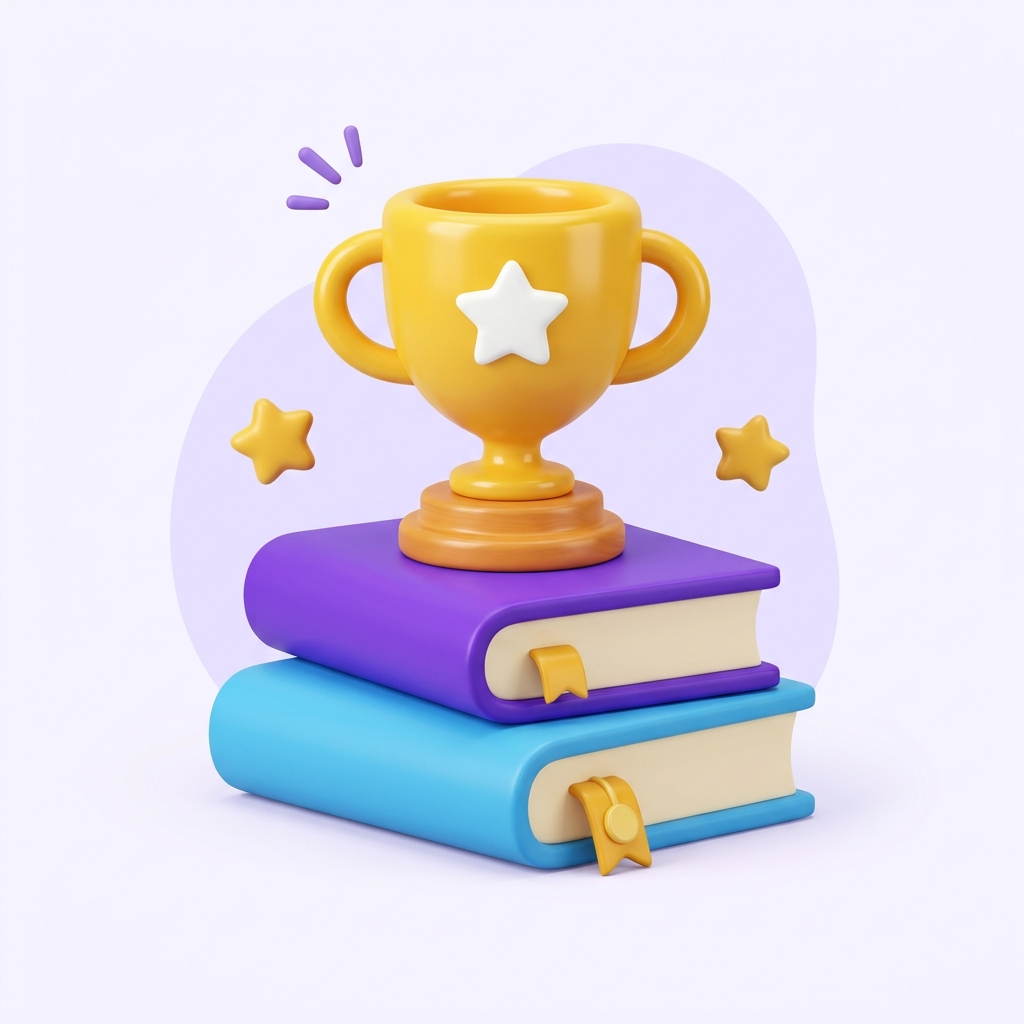
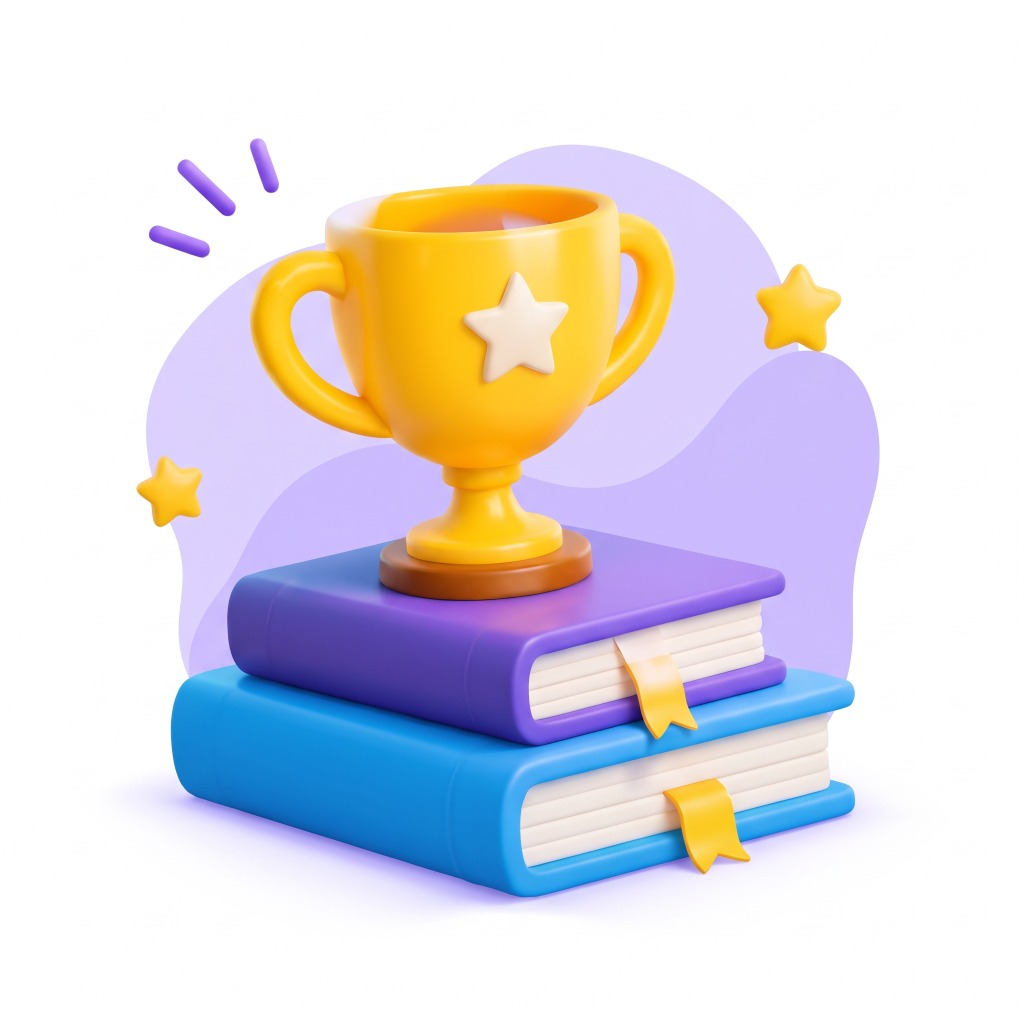
feat(ui): update trophy image, add purple wavy decorations to dashboard

diff --git a/resources/css/app.css b/resources/css/app.css
@@ -6913,6 +6913,38 @@ html, body {
   left: -12px;
 }
 
+/* Purple Wavy Decoration Layers */
+.td-wave-deco {
+  position: absolute;
+  pointer-events: none;
+  z-index: 0;
+  border-radius: 40% 60% 55% 45% / 55% 40% 60% 45%;
+}
+.td-wave-1 {
+  width: 420px;
+  height: 340px;
+  bottom: -40px;
+  right: -80px;
+  background: linear-gradient(135deg, rgba(167, 139, 250, 0.22) 0%, rgba(124, 58, 237, 0.10) 60%, transparent 100%);
+  border-radius: 42% 58% 48% 52% / 54% 46% 54% 46%;
+}
+.td-wave-2 {
+  width: 300px;
+  height: 240px;
+  bottom: 20px;
+  right: -30px;
+  background: linear-gradient(160deg, rgba(139, 92, 246, 0.18) 0%, rgba(109, 40, 217, 0.08) 70%, transparent 100%);
+  border-radius: 55% 45% 52% 48% / 48% 52% 48% 52%;
+}
+.td-wave-3 {
+  width: 220px;
+  height: 180px;
+  top: 30px;
+  left: -60px;
+  background: linear-gradient(200deg, rgba(167, 139, 250, 0.14) 0%, rgba(196, 181, 253, 0.08) 80%, transparent 100%);
+  border-radius: 48% 52% 60% 40% / 50% 55% 45% 50%;
+}
+
 .td-hero-grid {
   position: relative;
   z-index: 1;

diff --git a/resources/js/app.jsx b/resources/js/app.jsx
@@ -1179,6 +1179,9 @@ function TeacherDashboard({ setMode, setSession, setNotice, copyMobileLink, setI
     <main className="teacher-dashboard-layout td-studio-shell">
       <div className="td-dot-grid td-dot-right" aria-hidden="true" />
       <div className="td-dot-grid td-dot-left" aria-hidden="true" />
+      <div className="td-wave-deco td-wave-1" aria-hidden="true" />
+      <div className="td-wave-deco td-wave-2" aria-hidden="true" />
+      <div className="td-wave-deco td-wave-3" aria-hidden="true" />
 
       <div className="td-hero-grid">
         {/* Right Column (RTL Main Controls) */}
